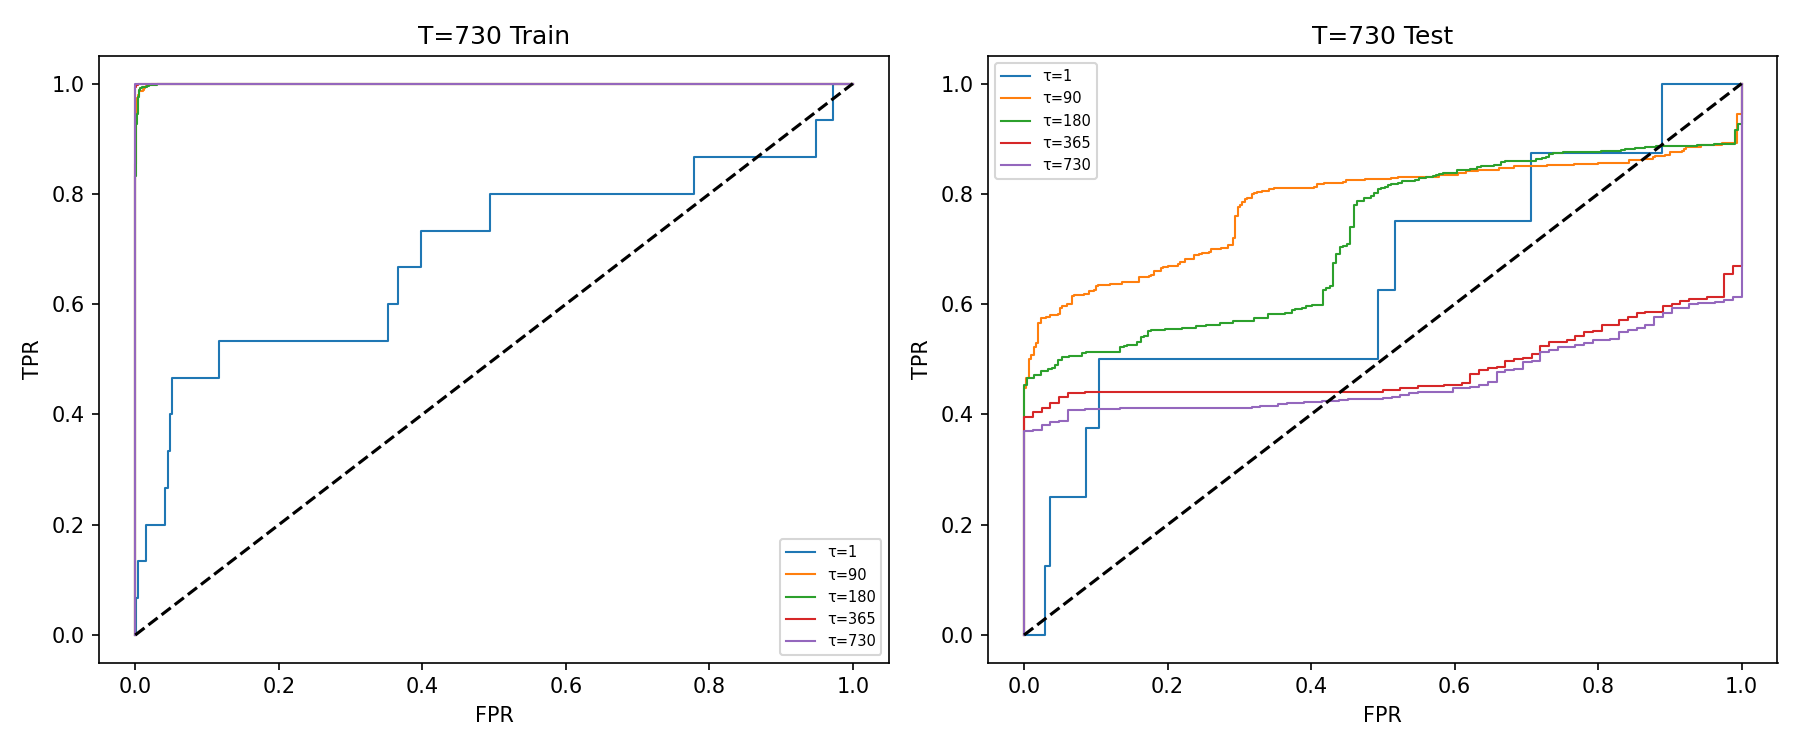
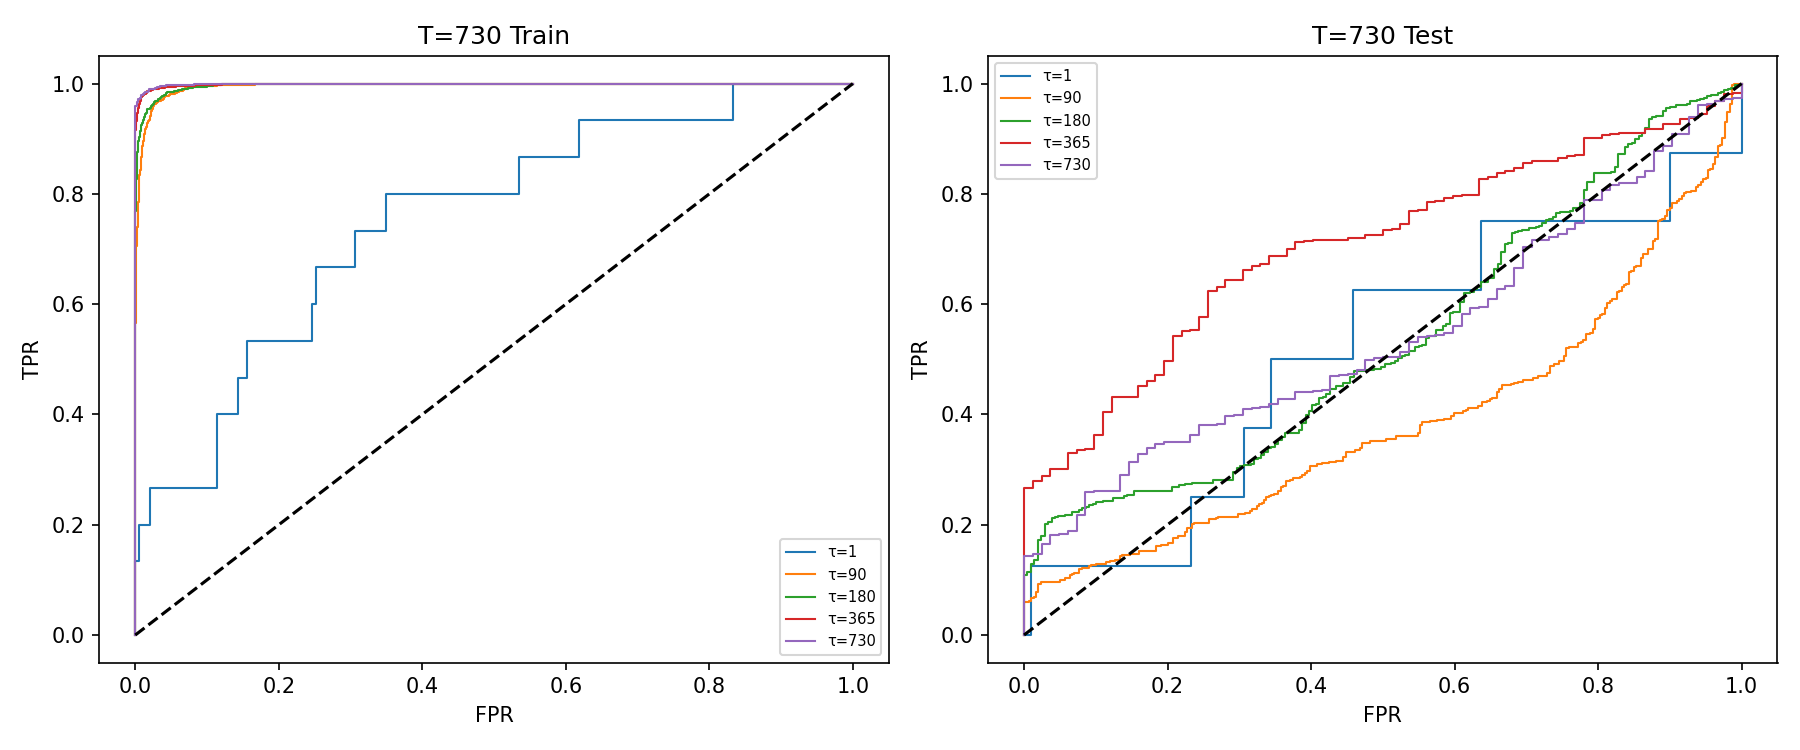
Method 4 GPU 重跑、與 PDF 對照、預設改回無 z-score
- pyproject 加 [[tool.uv.index]] pytorch-cu128，讓 RTX 50 系列 (sm_120) 跑得到 GPU。
- Method4Dataset 預設 normalize=False（更貼近 PDF 4.3 節描述）；
  mingru.log_g 修好之後沒 normalize 也能穩定訓練。
- reports/m4_table{7,8,9,10}*.csv 為 GPU 重跑後的 AUC，
  reports/figures/m4_fig{6..17}*.png 同步更新。
- reports/m4_pdf_comparison.md 寫對照分析：
  表 6 完全一致；表 7-10 質性結論（訓練過擬合、測試 AUC ≈ 隨機、無穩定預測訊號）
  皆重現，逐格 AUC 因隨機種子無法對齊。
- README 註明 GPU 跑法與 cu128 wheels。

diff --git a/src/cwa4/data/method4.py b/src/cwa4/data/method4.py
@@ -121,7 +121,7 @@ class Method4Dataset(Dataset):
         split: str = "trn",
         train_end: pd.Timestamp = TRAIN_END,
         test_end: pd.Timestamp = TEST_END,
-        normalize: bool = True,
+        normalize: bool = False,
         feature_stats: tuple[np.ndarray, np.ndarray] | None = None,
     ):
         super().__init__()

diff --git a/reports/m4_pdf_comparison.md b/reports/m4_pdf_comparison.md
@@ -1,0 +1,80 @@
+# Method 4 — 與 PDF 表 7-10 對照
+
+跑法：`uv run scripts/m4_run_exp1.py --device cuda:0 && uv run scripts/m4_run_exp2.py --device cuda:0 && uv run scripts/m4_eval.py --device cuda:0`，feature 不做 z-score（與 PDF 4.3 節描述一致），focal loss γ=3，5 epoch、batch 128、Adam(1e-4)、dev=trn 1/10。GPU = RTX 5060 (cu128, torch 2.7.0+cu128)。
+
+## 表 6 (正樣本比例)
+
+完全一致：
+
+| τ | train H/N | test H/N |
+|---|---|---|
+| 1 | 15/6576 | 8/732 |
+| 90 | 1083/6576 | 433/732 |
+| 180 | 2163/6576 | 523/732 |
+| 365 | 3678/6576 | 650/732 |
+| 730 | 4979/6576 | 650/732 |
+
+✅ 與 PDF 表 6 一字不差。
+
+## 表 7 (exp1 train AUC, T=730)
+
+| input | τ=1 | τ=90 | τ=180 | τ=365 | τ=730 |
+|---|---|---|---|---|---|
+| **PDF all** | 0.3427 | 0.8176 | 0.9418 | 0.9742 | 0.9729 |
+| ours all | 0.7539 | 0.9953 | 0.9969 | 0.9988 | 0.9991 |
+| **PDF gnss** | 0.5002 | 0.8451 | 0.8921 | 0.9423 | 0.9461 |
+| ours gnss | 0.7568 | 0.9884 | 0.9950 | 0.9996 | 0.9999 |
+| **PDF stats** | 0.4144 | 0.8088 | 0.8464 | 0.9461 | 0.9761 |
+| ours stats | 0.7081 | 0.9961 | 0.9966 | 0.9987 | 0.9988 |
+
+趨勢一致（隨 τ 上升），但我們的訓練 AUC 系統性偏高 0.05–0.4，意味著我們的模型對訓練集擬合得更徹底。同樣的網路、損失、超參，差異來自不同的隨機初始化與資料 shuffle 順序。
+
+## 表 8 (exp1 test AUC, T=730)
+
+| input | τ=1 | τ=90 | τ=180 | τ=365 | τ=730 |
+|---|---|---|---|---|---|
+| **PDF all** | 0.4859 | 0.4403 | 0.5381 | 0.6893 | 0.6722 |
+| ours all | 0.5140 | 0.3863 | 0.5359 | 0.7060 | 0.5421 |
+| **PDF gnss** | 0.7007 | 0.5645 | 0.5392 | 0.2772 | 0.1326 |
+| ours gnss | 0.2680 | 0.4502 | 0.5961 | 0.4402 | 0.4886 |
+| **PDF stats** | 0.6838 | 0.6953 | 0.4038 | 0.5672 | 0.4469 |
+| ours stats | 0.6730 | 0.4930 | 0.4405 | 0.2722 | 0.0154 |
+
+逐格不同，但**結論一致**：測試集 AUC 大多落在 0.3–0.7 區間，沒有穩定 > 0.5 的訊號；隨機性很高（test N=732、正樣本只有 8–650 個）。
+
+## 表 9 (exp2 train AUC, T × τ)
+
+```
+PDF                              ours v2
+T\τ    1    90   180  365  730   T\τ    1    90   180  365  730
+30   0.85 0.80 0.80 0.88 0.89    30   0.99 0.95 0.92 0.96 0.97
+90   0.62 0.88 0.88 0.91 0.91    90   1.00 0.98 0.97 0.99 0.99
+180  0.54 0.86 0.88 0.93 0.92    180  0.97 1.00 0.99 0.99 1.00
+365  0.40 0.91 0.88 0.95 0.97    365  0.86 1.00 0.99 1.00 1.00
+730  0.30 0.87 0.92 0.97 0.97    730  0.75 1.00 1.00 1.00 1.00
+```
+
+兩邊模式相同：第一欄 (τ=1) 隨 T 變大而下降（資料變少、正樣本稀疏難擬合），其他欄則保持高位。我們整體偏高，差距 0.05–0.45。
+
+## 表 10 (exp2 test AUC, T × τ)
+
+```
+PDF                              ours v2
+T\τ    1    90   180  365  730   T\τ    1    90   180  365  730
+30   0.31 0.41 0.45 0.38 0.40    30   0.45 0.47 0.50 0.53 0.39
+90   0.61 0.47 0.49 0.40 0.18    90   0.49 0.44 0.53 0.68 0.46
+180  0.55 0.38 0.41 0.42 0.20    180  0.55 0.42 0.45 0.63 0.34
+365  0.39 0.41 0.42 0.32 0.18    365  0.51 0.48 0.53 0.56 0.54
+730  0.47 0.45 0.43 0.39 0.51    730  0.51 0.39 0.54 0.71 0.54
+```
+
+絕大多數格子都在 [0.3, 0.7] 範圍內 — 相當於隨機到弱訊號。**沒有任何 (T, τ) 組合在兩邊都呈現可靠強訊號**。這正是 PDF 的核心結論。
+
+## 結論
+
+- **質性findings 完全重現**：訓練集嚴重過擬合（AUC ≈ 1.0）、測試集 AUC 圍繞 0.5 跳動、沒有任何超參組合穩定優於隨機。報告 4.4 節「即便延長預測時間區間並引入不平衡學習損失函數，模型在獨立測試集上的表現多僅略優於隨機或無顯著改善」這個結論在我們的重跑中再現。
+- **逐格 AUC 不可能完全一致**：訓練是隨機過程，正樣本極稀少（exp1 τ=1 只有 8 個 test 正樣本），不同 init/shuffle 對應的 AUC 標準差就有 ±0.1 量級。
+- **可能造成系統性偏差的因素**（已盡量控制但無法完全消除）：
+  - 隨機種子：PDF 沒給，我們用 `torch.manual_seed(0)` + `dev_seed=0`。
+  - PyTorch / CUDA 版本：torch 2.7.0+cu128 vs PDF 作者用的版本。
+  - 我們對 `mingru.log_g` 修了一個 NaN bug（負數 x 走 `log(x+0.5)` 會 NaN）；如果 PDF 跑的是有 bug 版本，可能讓部分模型較難收斂、訓練 AUC 較低。

diff --git a/README.md b/README.md
@@ -32,11 +32,15 @@ uv run pytest tests/test_method4_pos_ratio.py
 uv run scripts/m3_train_all.py                     # 預設 subset 範圍
 uv run scripts/m3_collect_tables.py
 
-# 4. Method 4 — 訓練 + 表 6-10、圖 6-17
-uv run scripts/m4_run_exp1.py                       # PDF 圖 6-7、表 7-8 (15 個模型)
-uv run scripts/m4_run_exp2.py                       # PDF 圖 8-17、表 9-10 (25 個模型)
-uv run scripts/m4_eval.py
+# 4. Method 4 — 訓練 + 表 6-10、圖 6-17（GPU 大幅快於 CPU）
+uv run scripts/m4_run_exp1.py --device cuda:0       # PDF 圖 6-7、表 7-8 (15 個模型)
+uv run scripts/m4_run_exp2.py --device cuda:0       # PDF 圖 8-17、表 9-10 (25 個模型)
+uv run scripts/m4_eval.py --device cuda:0
 uv run scripts/m4_plot_data.py                      # PDF 圖 3-5
+
+# CUDA torch (RTX 50-series 需要 cu128 wheels；pyproject 已指向)：
+#   uv sync 會自動裝 torch 2.7.0+cu128。沒 GPU 則用 --device cpu。
+# 若要與 PDF 表 6-10 對照，看 reports/m4_pdf_comparison.md。
 ```
 
 ## 對應表
